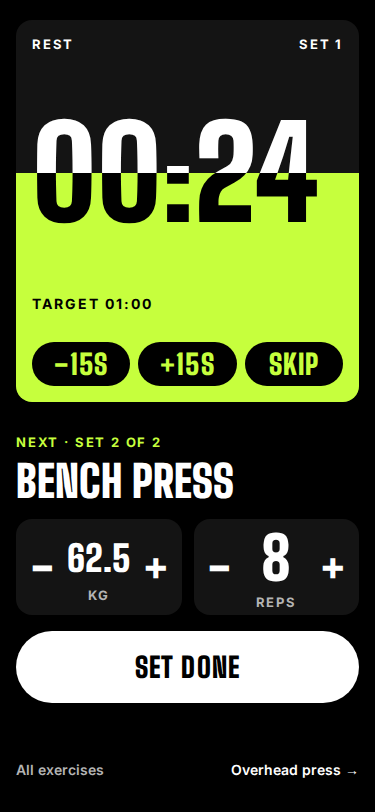
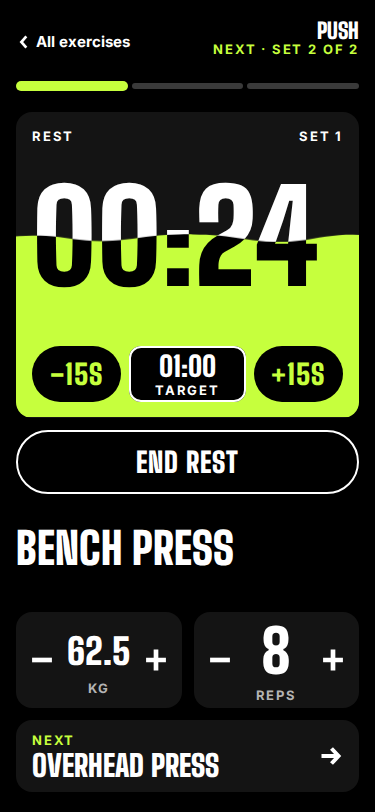
docs: describe the timer settings and controls

diff --git a/docs/ARCHITECTURE.md b/docs/ARCHITECTURE.md
@@ -20,17 +20,17 @@ GymOS is a frontend-only single-page app. A React tree holds plans and logged se
 | `plans` | Create, edit, archive, restore, delete and start training plans |
 | `log` | Log a session set by set, including timed sets, rests and holds and their timers |
 | `progress` | The Stats tab: per-exercise charts and analysis (the folder keeps its earlier name) |
-| `settings` | The Settings tab (also opened by the empty-state import link, which starts the file picker): appearance, units, language, and the Data card with CSV export, import (each step in a sheet) and Delete all data |
+| `settings` | The Settings tab (also opened by the empty-state import link, which starts the file picker): appearance, units, timers (default rest per category, rest after holds, sound and vibration), language, and the Data card with CSV export, import (each step in a sheet) and Delete all data |
 | `shared` | Small form and layout primitives |
 
-Starting a plan creates an active session, kept in storage until Save, so a reload mid-session restores it and unfinished work never reaches Stats or the export. Editing a saved session opens the same way, but its exercise screens are `SavedSets` (typed rows) instead of `ExerciseLogger`, so no rest or hold timer is created. The four tabs (Plans, Log, Stats, Settings) are hidden while a session is open. Layout widths and breakpoints are tokens in `src/styles/tokens.css`: below 600 px the phone layout fills the screen; from 600 px the app keeps a centred 600 px column with the tab bar inside it; from 1024 px the tabs move to a top bar beside the wordmark. Log home then fills the 1200 px frame in two panes (`.mainContent:has(.logHome)`): New session in a fixed 440 px pane with the plan's first exercises, Recent sessions as a table beside it. Stats does the same: its exercise search and list sit in the left pane in place of the full-screen search sheet, and the chart and figures fill the right; because the sheet and the list are different controls, `ProgressTab` picks one with `useMediaQuery(WIDE_QUERY)` rather than CSS. Plans uses the same hook: the active plans become selectable rows in the left pane, with Archived below them, and the selected plan is shown in full on the right with Start and the actions sheet; the selection is not stored and opens on the first active plan. Below 1024 px the same detail is a screen of its own: tapping a plan's name opens it under a back link, and saving a new plan opens it marked as saved, with Done back to the list; from 1024 px saving selects the new plan in the right pane instead. Edit plan, in the actions sheet of an active plan, opens the same form filled in; saving the changes marks the overview "Changes saved" the same way. An edit replaces the plan in place (same id and list position). Renaming the plan or one of its exercises also renames it in that plan's past sessions, matched by plan id and exercise id, so Log and Stats keep one name; imported sessions without the plan's ids keep the old name, and removed or changed exercises stay as they were logged. With no active plans Plans keeps the 600 px column. With nothing to list, Plans (no active plans), Log (no active plan) and Stats (no saved sessions) show the shared `EmptyState` accent block in place of their visible title, which stays as a visually hidden h1; its CSV import link appears only when the device holds no plans and no sessions. With no active plan and no sessions Log centres that block in the 480 px column, as Stats does. Recent sessions starts at the six newest and grows ten at a time; its plan filter groups sessions by plan id, or by saved plan name for imported sessions without one, so archived and deleted plans keep their history. The filter and the number shown are component state, reset whenever Log home unmounts. Screens without a wide layout keep the 600 px column. The wide-only parts are in the phone markup too, hidden below 1024 px, so the narrower layouts render as before. During a session the log shows either the exercise list or one exercise as a full screen. Every exercise screen stays mounted, hidden when not shown, so a running rest or hold keeps its timer and sound cue while the person looks at another exercise. Its sets table shows today's sets beside last time's: set N is paired with set N of the most recent saved session that has the exercise, in the chosen units, and the Last column is left out when there is no such session. From 1024 px an open exercise spans the window: its timer is fixed in the left 60% at full height, and the entry column (navigation on top, the main button and the next-exercise card, or Finish on the last exercise, at the bottom) flows on the right. A reps exercise with no rest running shows the rest it will start, so the split holds still on Set done. The session list and the Done screen keep the 600 px column.
+Starting a plan creates an active session, kept in storage until Save, so a reload mid-session restores it and unfinished work never reaches Stats or the export. Editing a saved session opens the same way, but its exercise screens are `SavedSets` (typed rows) instead of `ExerciseLogger`, so no rest or hold timer is created. The four tabs (Plans, Log, Stats, Settings) are hidden while a session is open. Layout widths and breakpoints are tokens in `src/styles/tokens.css`: below 600 px the phone layout fills the screen; from 600 px the app keeps a centred 600 px column with the tab bar inside it; from 1024 px the tabs move to a top bar beside the wordmark. Log home then fills the 1200 px frame in two panes (`.mainContent:has(.logHome)`): New session in a fixed 440 px pane with the plan's first exercises, Recent sessions as a table beside it. Stats does the same: its exercise search and list sit in the left pane in place of the full-screen search sheet, and the chart and figures fill the right; because the sheet and the list are different controls, `ProgressTab` picks one with `useMediaQuery(WIDE_QUERY)` rather than CSS. Plans uses the same hook: the active plans become selectable rows in the left pane, with Archived below them, and the selected plan is shown in full on the right with Start and the actions sheet; the selection is not stored and opens on the first active plan. Below 1024 px the same detail is a screen of its own: tapping a plan's name opens it under a back link, and saving a new plan opens it marked as saved, with Done back to the list; from 1024 px saving selects the new plan in the right pane instead. Edit plan, in the actions sheet of an active plan, opens the same form filled in; saving the changes marks the overview "Changes saved" the same way. An edit replaces the plan in place (same id and list position). Renaming the plan or one of its exercises also renames it in that plan's past sessions, matched by plan id and exercise id, so Log and Stats keep one name; imported sessions without the plan's ids keep the old name, and removed or changed exercises stay as they were logged. With no active plans Plans keeps the 600 px column. With nothing to list, Plans (no active plans), Log (no active plan) and Stats (no saved sessions) show the shared `EmptyState` accent block in place of their visible title, which stays as a visually hidden h1; its CSV import link appears only when the device holds no plans and no sessions. With no active plan and no sessions Log centres that block in the 480 px column, as Stats does. Recent sessions starts at the six newest and grows ten at a time; its plan filter groups sessions by plan id, or by saved plan name for imported sessions without one, so archived and deleted plans keep their history. The filter and the number shown are component state, reset whenever Log home unmounts. Screens without a wide layout keep the 600 px column. The wide-only parts are in the phone markup too, hidden below 1024 px, so the narrower layouts render as before. During a session the log shows either the exercise list or one exercise as a full screen. Every exercise screen stays mounted, hidden when not shown, so a running rest or hold keeps its timer and sound cue while the person looks at another exercise. Its sets table shows today's sets beside last time's: set N is paired with set N of the most recent saved session that has the exercise, in the chosen units, and the Last column is left out when there is no such session. From 1024 px an open exercise spans the window: its timer is fixed in the left 60% at full height (a running or paused timer has its buttons in a strip under the block), and the entry column (navigation on top, the main button and the next-exercise card, or Finish on the last exercise, at the bottom) flows on the right. A reps exercise with no rest running shows the rest it will start, so the split holds still on Set done. The session list and the Done screen keep the 600 px column.
 
 Logic that has no UI lives outside the components: `src/utils` (storage, CSV, import merging, the active session, sessions and sets, progress and metrics, rest rules, plans, dates, ids, timer and unit preferences), `src/hooks` (`useTimer`, `useActiveSession`, `useMediaQuery`), `src/constants` and `src/types`.
 
 ## Data and state
 
 - Store: `localStorage` in the user's browser, accessed through `src/utils/storage.ts`.
-- Keys: `gym:plans`, `gym:sessions`, `gym:tab`, `gym:selectedExName` (written by `GymTracker`), `gym:activeSession` (the unfinished session, `src/utils/activeSession.ts`), `gym:timer:<id>` (one per rest or hold shown in the session, cleared when the session is saved, discarded or deleted, `src/hooks/useTimer.ts`), `gym:timerPrefs` (sound and vibration, read if present; nothing in the app writes it, so both are on, `src/utils/timerPrefs.ts`), `gym:unitPrefs` (weight `kg`/`lbs` and distance `km`/`mi`, written from Settings, kg and km when missing or unreadable, `src/utils/unitPrefs.ts`) and `gym:accent` (the accent colour id, written from Settings, lime when missing or unknown, `src/utils/accentPrefs.ts`).
+- Keys: `gym:plans`, `gym:sessions`, `gym:tab`, `gym:selectedExName` (written by `GymTracker`), `gym:activeSession` (the unfinished session, `src/utils/activeSession.ts`), `gym:timer:<id>` (one per rest or hold shown in the session, cleared when the session is saved, discarded or deleted, `src/hooks/useTimer.ts`), `gym:timerPrefs` (rest seconds per category, rest after holds, sound and vibration, written from Settings; a missing or unreadable value takes its default, 60/30/15 seconds and all on; a rest already stored keeps its own target, `src/utils/timerPrefs.ts`), `gym:unitPrefs` (weight `kg`/`lbs` and distance `km`/`mi`, written from Settings, kg and km when missing or unreadable, `src/utils/unitPrefs.ts`) and `gym:accent` (the accent colour id, written from Settings, lime when missing or unknown, `src/utils/accentPrefs.ts`).
 - Units: weights are stored in kg and distances in each exercise's own unit (km for new exercises, mi kept for older ones). Screens read the Settings choice through `useUnitPrefs` and convert at the edges with `src/utils/units.ts`: displays round weights to 0.1 and distances to 0.01, typed values are converted back at full precision, and an edited set keeps any field left unchanged. Changing units never rewrites stored data.
 - Accent: the five accent colours are tokens in `src/styles/tokens.css` (`--accent-<id>`); `:root[data-accent="…"]` points `--color-accent` at one of them. `src/utils/accentPrefs.ts` stores the choice under `gym:accent`, sets `data-accent` before the first render so the page never flashes lime, and falls back to lime for a missing or unknown value. A unit test reads the tokens file and checks each accent's contrast.
 - Order: sessions are kept newest first by save order, not sorted by date. Saving prepends; an import appends.
@@ -40,7 +40,7 @@ Logic that has no UI lives outside the components: `src/utils` (storage, CSV, im
 
 ## Import and export
 
-Export builds one CSV from plans and sessions (`exportToCSV`), with session weights and distances in the chosen units (converted values rounded to 0.01) and `weight_unit`/`distance_unit` columns naming them; a plan row's `distance_unit` is the exercise's own unit. Import (`importFromCSV`) accepts the current 14-column header, the 12-column header from before units (kg and each exercise's own distance unit) and the 8-column legacy header, and rejects any other header. Each row is converted back to kg and the exercise's distance unit at full precision, so a file re-imports exactly when its values were entered in its units and equal to display precision otherwise. Nothing is stored at parse time: a sheet over Settings shows what the file holds, then the user chooses **Add to my data**, which merges plans by name and skips sessions already present (same date, plan and notes), or **Replace my data**, which overwrites stored plans and sessions. A file that fails to parse leaves stored data unchanged. **Delete all data**, after a confirm sheet, writes empty plans and sessions; preferences (accent, units) are kept.
+Export builds one CSV from plans and sessions (`exportToCSV`), with session weights and distances in the chosen units (converted values rounded to 0.01) and `weight_unit`/`distance_unit` columns naming them; a plan row's `distance_unit` is the exercise's own unit. Import (`importFromCSV`) accepts the current 14-column header, the 12-column header from before units (kg and each exercise's own distance unit) and the 8-column legacy header, and rejects any other header. Each row is converted back to kg and the exercise's distance unit at full precision, so a file re-imports exactly when its values were entered in its units and equal to display precision otherwise. Nothing is stored at parse time: a sheet over Settings shows what the file holds, then the user chooses **Add to my data**, which merges plans by name and skips sessions already present (same date, plan and notes), or **Replace my data**, which overwrites stored plans and sessions. A file that fails to parse leaves stored data unchanged. **Delete all data**, after a confirm sheet, writes empty plans and sessions; preferences (accent, units, timers) are kept.
 
 ## Trust boundaries
 

diff --git a/README.md b/README.md
@@ -12,7 +12,7 @@ A phone-first gym tracker for logging a set and running a rest timer in a few ta
 
 - **Training plans**: create plans of strength, calisthenics and cardio exercises each with a muscle group and how it is tracked (reps, optional weight, time, optional distance); open a plan's overview to see its exercises in order; edit a plan, with renamed exercises renamed in its past sessions too; archive, restore and delete them.
 - **Session logging**: start a plan, log weight and reps with large steppers, or time a hold or a cardio effort with optional distance. Edit or delete a logged set, back-date a session, and delete a saved one or correct it: its sets become typeable rows to change, add and remove, with no timers.
-- **Rest and hold timers**: a rest starts when a set is logged and fills its timer block as it runs, its top edge a moving wave (flat with reduced motion), with buttons to add or take off time and to skip. A sound and vibration cue plays at the end. Timers survive switching exercises and reloading the page.
+- **Rest and hold timers**: a rest starts when a set is logged and fills its timer block as it runs, its top edge a moving wave (flat with reduced motion). While a timer runs, steps that grow with its length or a typed time change its target, and End rest or Pause sits under it. Settings holds the default rest per exercise category, whether a rest follows a hold, and the sound and vibration cue played at the target (no vibration switch where the browser cannot vibrate). Timers survive switching exercises and reloading the page.
 - **Finish screen**: totals for the session, notes, then save. A newly saved session is first in Recent on the Log home.
 - **Session history**: Recent on the Log home shows the six newest sessions; Show more reaches older ones ten at a time, and a filter button picks one plan to narrow the list to, archived or deleted plans included.
 - **Stats**: per-exercise chart of average, peak, total or estimated one-rep max (e1RM), over the last 5 or 10 sessions, 1 or 3 months, or all time, with last and best figures, a dot for every session and personal records ringed; an info button says what each metric measures.
